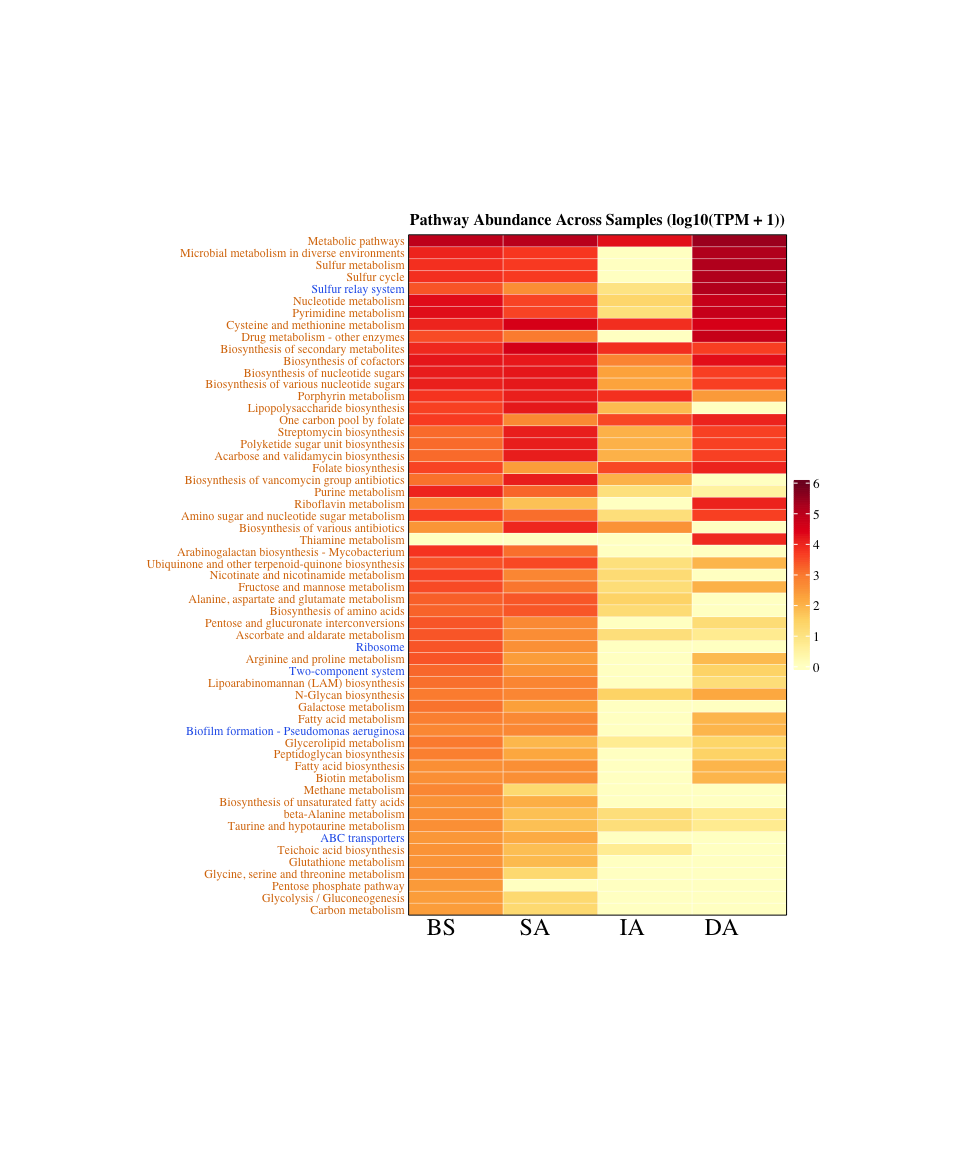
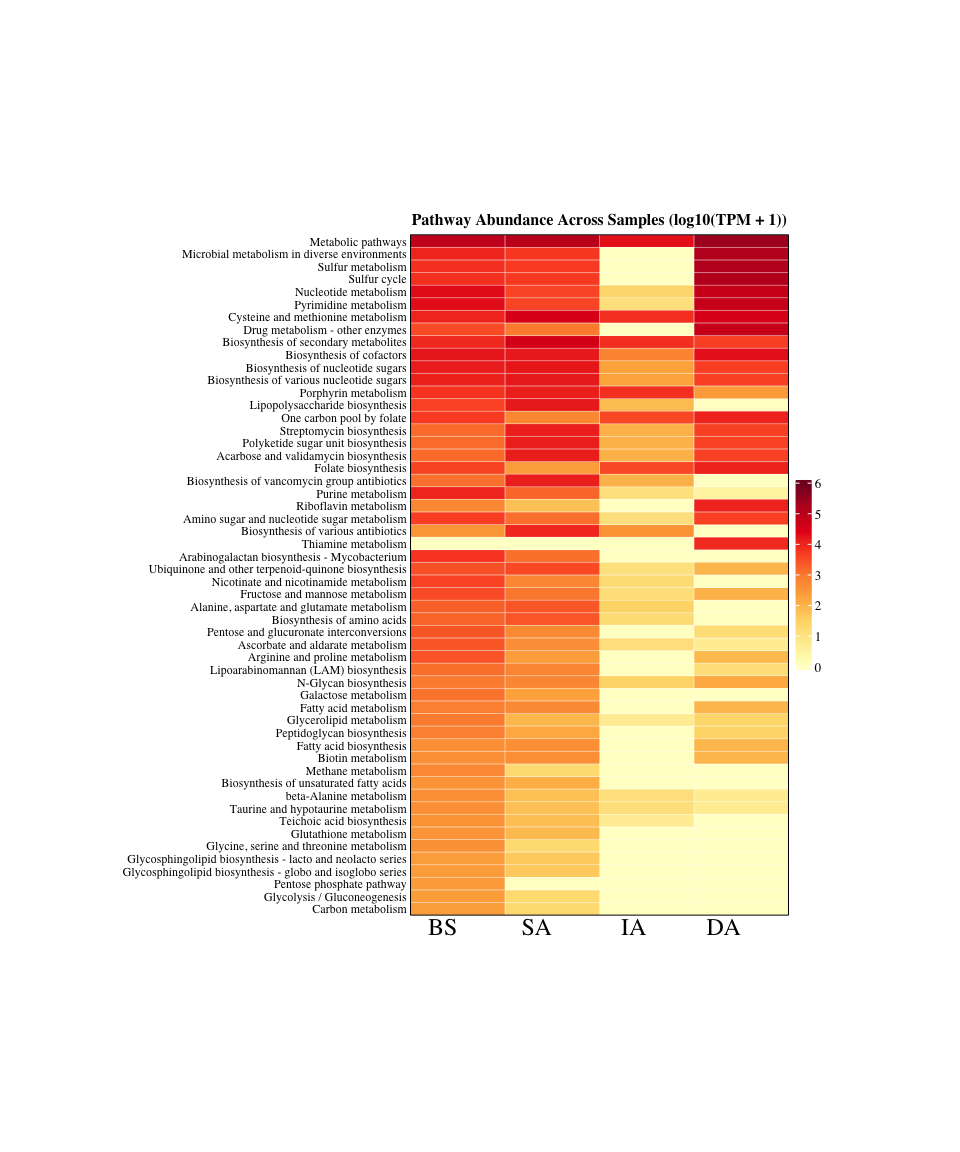
Restrict AMG pathway heatmap to KEGG metabolism

Changed region(s): [[0.125, 0.1875, 0.875, 0.8125]]

diff --git a/analyses/05-fig5-heatmap.md b/analyses/05-fig5-heatmap.md
@@ -18,7 +18,7 @@ Cunli Pan, Jinlong Ru
   - [<span class="toc-section-number">1.7</span> Task 7: Plot Top 20 AMG
     Heatmap](#task-7-plot-top-20-amg-heatmap)
 
-**Updated: 2026-07-22 10:33:25 CET.**
+**Updated: 2026-07-23 17:45:29 CET.**
 
 The purpose of this document is to construct and visualize a heatmap of
 viral functional potential based on KEGG orthology (KO) and pathway
@@ -380,23 +380,14 @@ write.xlsx(deduplicated_df, path_target("deduplicated_pathway_table.xlsx"))
 
 # Filter valid pathways
 # Restrict pathway-level visualization to categories applicable to microbial/viral genomes
-excluded_top_categories <- c("Human Diseases", "Organismal Systems")
-
-excluded_eukaryote_pathways <- c(
-  "map04148",  # Efferocytosis
-  "map04142",  # Lysosome biogenesis
-  "map04152",  # AMPK signaling pathway
-  "map00601",  # Glycosphingolipid biosynthesis - lacto and neolacto series
-  "map00603"   # Glycosphingolipid biosynthesis - globo and isoglobo series
-)
-
+# Filter valid pathways
+# Restrict pathway-level visualization to KEGG Metabolism pathways
 filtered_df <- deduplicated_df %>%
   dplyr::filter(!is.na(Pathway_ID), !is.na(Pathway_Name), !is.na(sample_group)) %>%
   dplyr::filter(!is.na(TPM)) %>%
-  dplyr::filter(!(Pathway_Top_Category %in% excluded_top_categories)) %>%
-  dplyr::filter(!(Pathway_ID %in% excluded_eukaryote_pathways)) %>%
-  mutate(Pathway_Group = ifelse(str_starts(Pathway_Top_Category, "Metabolism"),
-                                 "Metabolism", "Other"))
+  dplyr::filter(Pathway_Top_Category == "Metabolism") %>%
+  mutate(Pathway_Group = "Metabolism")
+
 
 message("Valid pathway rows: ", nrow(filtered_df))
 
@@ -468,11 +459,7 @@ matched <- df_heatmap %>%
   dplyr::left_join(anno_df, by = "Pathway_Short")
 
 # Metabolism=orange, Other=blue
-label_colors <- ifelse(
-  str_starts(matched$Pathway_Top_Category, "Metabolism"),
-  "#D97706",  # Orange
-  "#2563EB"   # Blue
-)
+label_colors <- "black"
 
 # Convert to matrix
 mat <- as.matrix(df_heatmap)
@@ -543,6 +530,25 @@ dev.off()
 <summary>Code</summary>
 
 ``` r
+# --- TEMPORARY: TIFF export for Fig. 5 assembly; delete after use ---
+tiff(path_target("Fig5a_metabolic_pathway_heatmap_300dpi.tiff"),
+     width = 3600, height = 4800, res = 300,
+     compression = "lzw", bg = "white")
+draw(ht)
+dev.off()
+```
+
+</details>
+
+    quartz_off_screen 
+                    2 
+
+<details class="code-fold">
+<summary>Code</summary>
+
+``` r
+# ---
+
 pdf(path_target("Fig5_pathway_heatmap.pdf"), width = 12, height = 16)
 draw(ht)
 dev.off()
